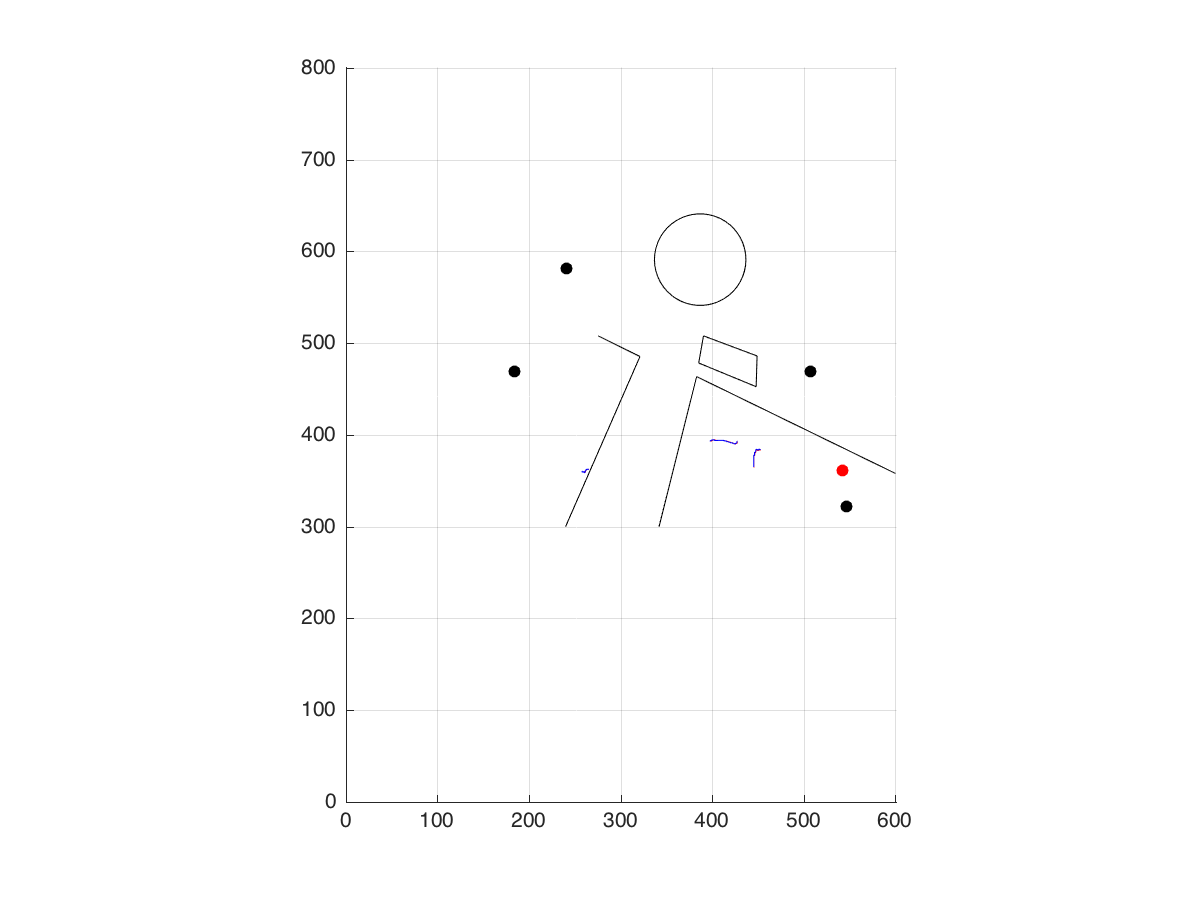
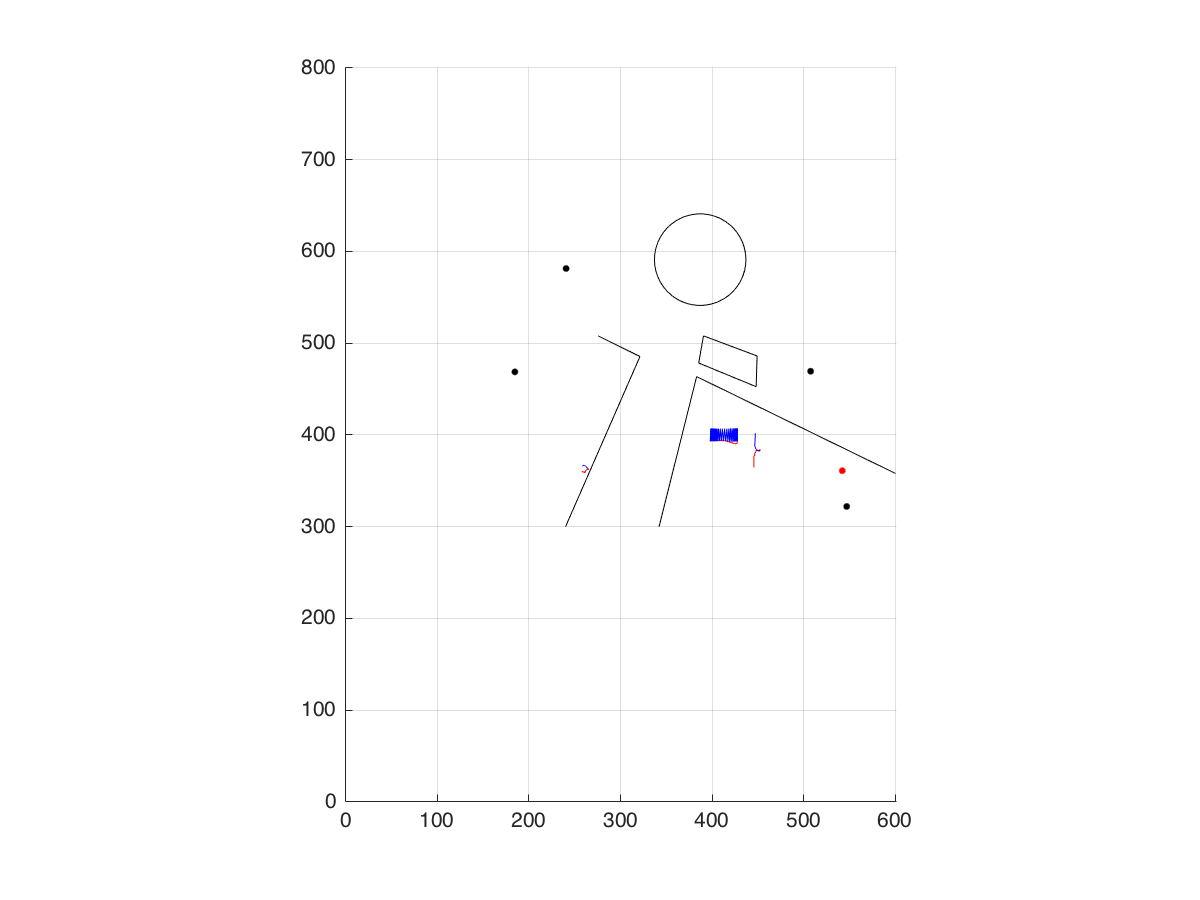
Results

diff --git a/final/visualizeresults.m b/final/visualizeresults.m
@@ -21,7 +21,7 @@ input_layers = size(input,2);
 output_layers = size(output,2);
 
 
-net = mlp(input_layers, hidden_layer, output_layers, 'linear');
+net = mlp(input_layers, 45000, output_layers, 'linear');
 
 
 options = zeros(1,20);
@@ -194,15 +194,25 @@ agent3yNN = [];
 for t = 0:(end_time-1)
     idx = t*number_of_agents; 
     
-    agent1xNN = [agent1xNN dataNN(idx+1, 2) + predictedNN(idx+1,1)];
-    agent1yNN = [agent1yNN max_y-dataNN(idx+1, 3) + predictedNN(idx+1,2)];
-    
-    agent2xNN = [agent2xNN dataNN(idx+25, 2) + predictedNN(idx+25,1)];
-    agent2yNN = [agent2yNN max_y-dataNN(idx+25, 3) + predictedNN(idx+25,2)];
-    
-    agent3xNN = [agent3xNN dataNN(idx+34, 2) + predictedNN(idx+34,1)];
-    agent3yNN = [agent3yNN max_y-dataNN(idx+34, 3) + predictedNN(idx+34,2)];
-    
+    if t == 0
+        agent1xNN = [agent1xNN dataNN(idx+1, 2) + predictedNN(idx+1,1)];
+        agent1yNN = [agent1yNN max_y-dataNN(idx+1, 3) + predictedNN(idx+1,2)];
+
+        agent2xNN = [agent2xNN dataNN(idx+25, 2) + predictedNN(idx+25,1)];
+        agent2yNN = [agent2yNN max_y-dataNN(idx+25, 3) + predictedNN(idx+25,2)];
+
+        agent3xNN = [agent3xNN dataNN(idx+34, 2) + predictedNN(idx+34,1)];
+        agent3yNN = [agent3yNN max_y-dataNN(idx+34, 3) + predictedNN(idx+34,2)];
+    else
+        agent1xNN = [agent1xNN agent1xNN(end) + predictedNN(idx+1,1)];
+        agent1yNN = [agent1yNN agent1yNN(end) - predictedNN(idx+1,2)];
+
+        agent2xNN = [agent2xNN agent2xNN(end) + predictedNN(idx+25,1)];
+        agent2yNN = [agent2yNN agent2yNN(end) - predictedNN(idx+25,2)];
+
+        agent3xNN = [agent3xNN agent3xNN(end) + predictedNN(idx+34,1)];
+        agent3yNN = [agent3yNN agent3yNN(end) - predictedNN(idx+34,2)];
+    end
 end
 
 

diff --git a/final/kfoldnetwork.m b/final/kfoldnetwork.m
@@ -14,7 +14,7 @@ for g = 1:length(gradients)
     input = data(:, [2 3 4 5 8 9]);
     output = data(:, 6:7);
 
-%     hidden_layers = [2500, 3500, 4500];
+%         hidden_layers = [2500, 3500, 4500];
    % hidden_layers = [50, 100, 200];
     hidden_layers = [100, 200, 500, 1000, 1500, 2500, 4500, 8500, 12000, 14000, 18000, 22000];
 
